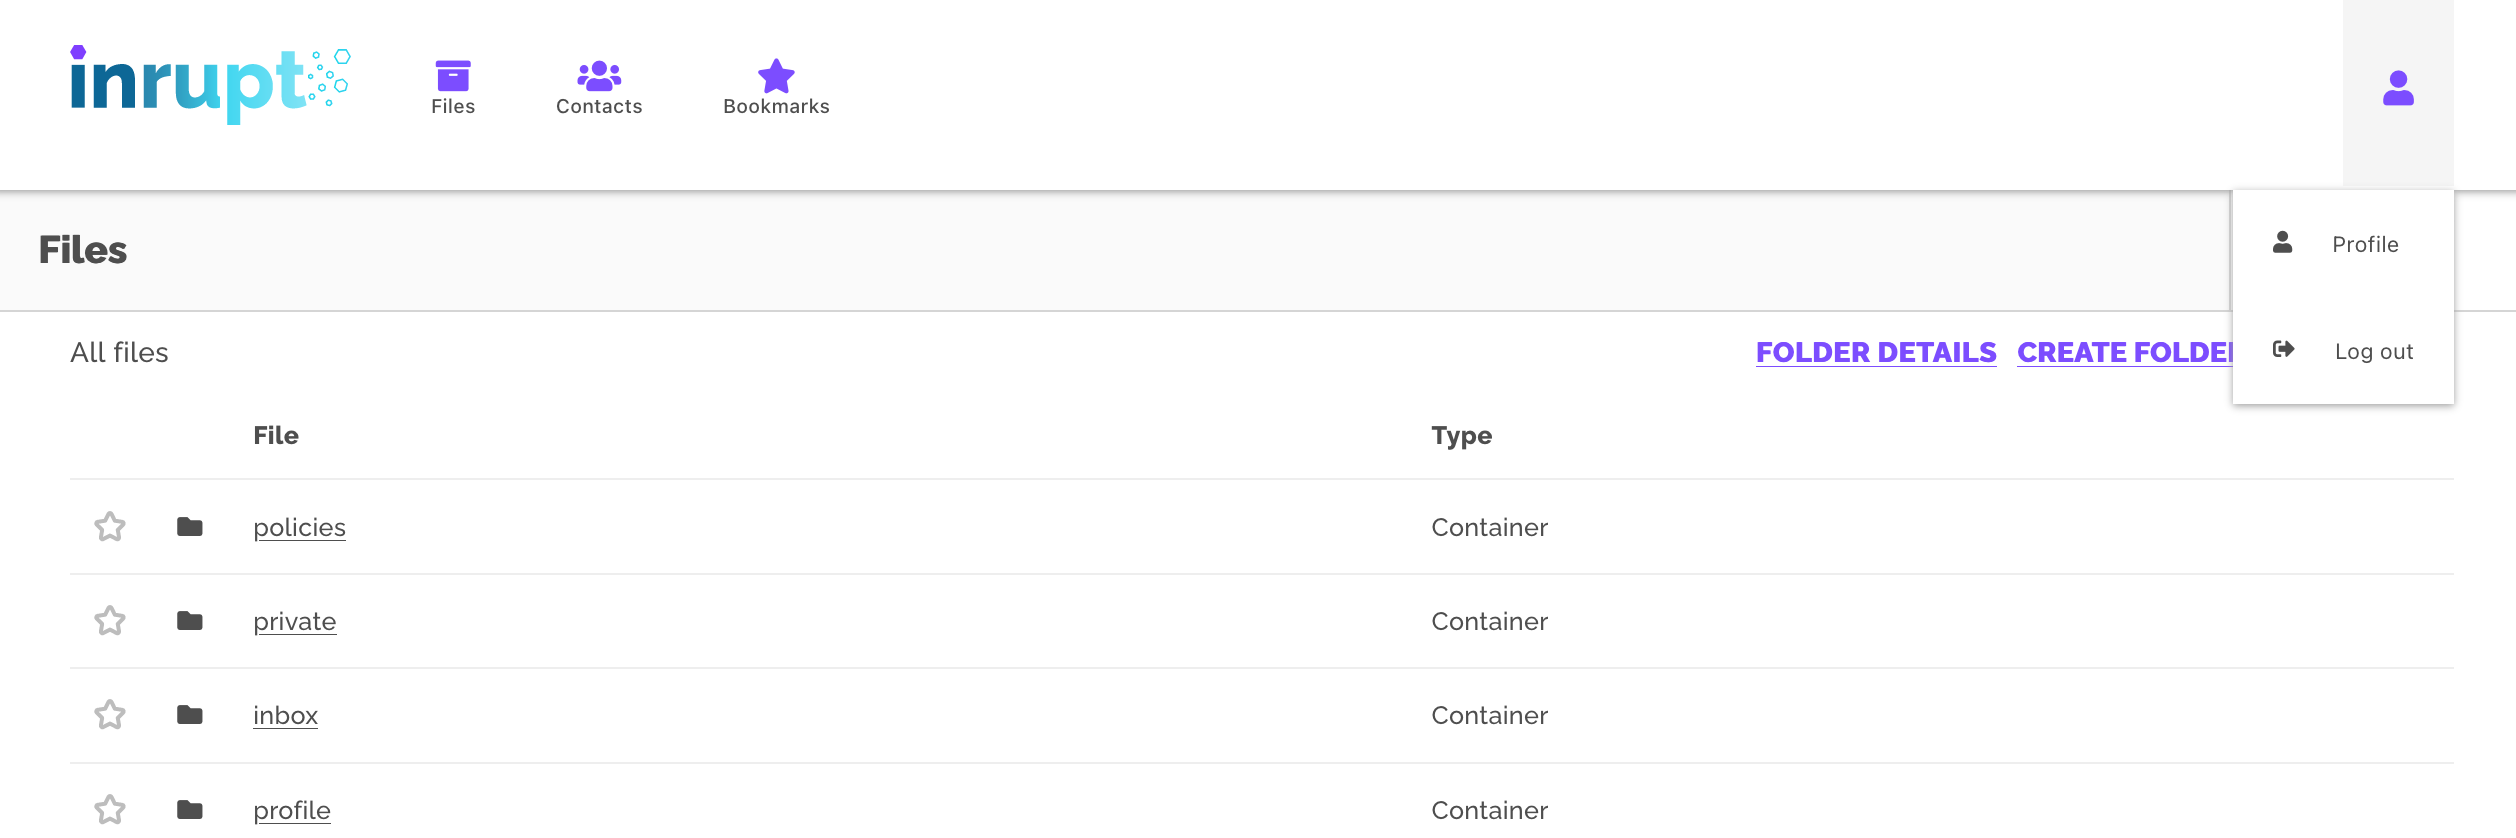
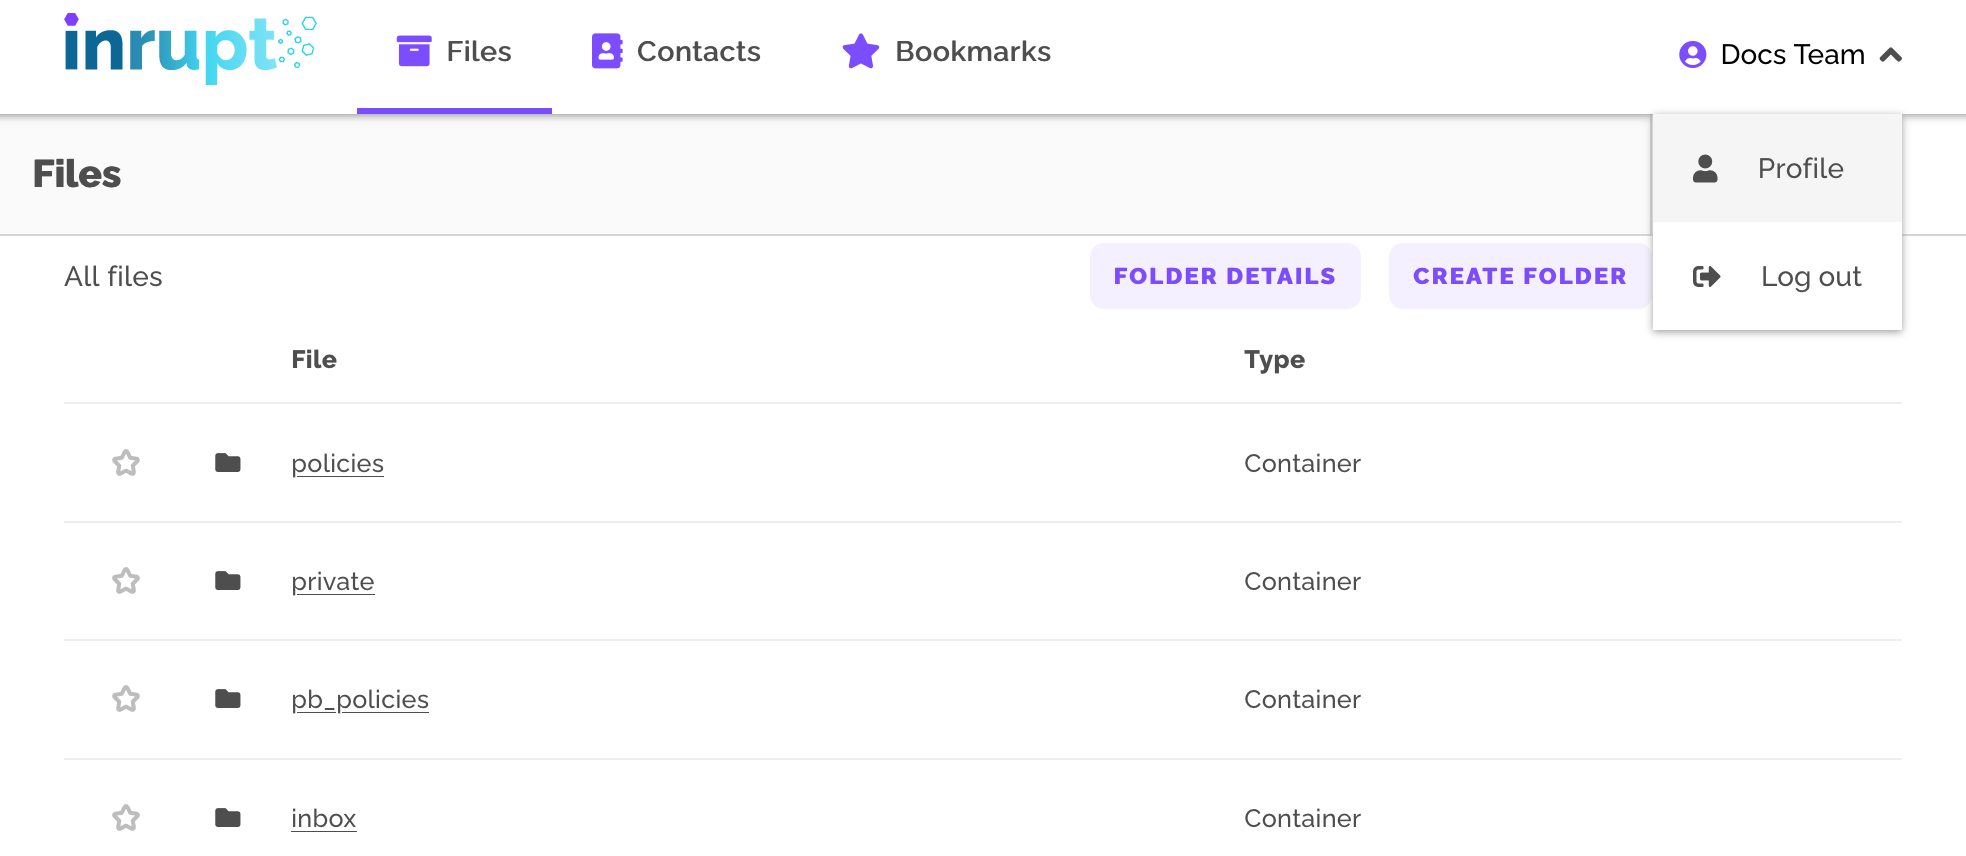
update for 1.1

diff --git a/source/manage-files.rst b/source/manage-files.rst
@@ -3,13 +3,14 @@ Manage Data: Files View
 =======================
 
 To manage the files in a Pod, go to :guilabel:`Files` view in
-PodBrowser. The :guilabel:`Files` view is the default view, but you can
-also switch to the :guilabel:`Files` view by clicking on the Files icon
-on the top menu bar.
+PodBrowser; i.e., click on :guilabel:`Files` on the top menu bar.
 
 .. image:: /images/podbrowser-files-view.png
    :alt: PodBrowser Files View
    :width: 600px
+
+Files View
+==========
 
 The :guilabel:`Files` view displays the contents of your Pod.
 The contents of your Pod have the following type:
@@ -39,7 +40,7 @@ folder.
 
 Alternatively, you can go directly to a folder:
 
-#. Click on the :guilabel:`Pod` indicator dropdown on the top left-hand side.
+#. Click on the :guilabel:`Your Pod` on the top right-hand side.
 
 #. Select :guilabel:`-> Change Pod`.
 
@@ -59,31 +60,19 @@ To view the details of a folder:
    Details` to open a Details view. The Details view provides
    information about the current folder you are browsing.
 
-   For example, the following image displays the details for the
-   folder named ``profile``:
-
-   .. image:: /images/podbrowser-folder-details.png
-      :alt: Details of the profile Folder/Container
-      :width: 650px
-
 #. From the folder's Details view:
 
    - You can :ref:`Delete <delete>` the folder.
 
    - You can view its Details.
 
-   - You can modify the :ref:`Permissions <modify-permissions>` to the folder.
+   - You can modify the :ref:`Sharing <modify-permissions>` permissions
+     for the folder.
 
 To view the details of a file/Resource:
 
 #. Click on the file to open a Details view. The Details view
-   provides information about the current selected file. For example,
-   the following image displays the details for the file named
-   ``card``:
-
-   .. image:: /images/podbrowser-resource-details.png
-      :alt: Details of a file named card
-      :width: 650px
+   provides information about the current selected file.
 
 #. From the file's Details view:
 
@@ -93,7 +82,8 @@ To view the details of a file/Resource:
 
    - You can view its Details.
 
-   - You can modify the :ref:`Permissions <modify-permissions>` to the File.
+   - You can modify the :ref:`Sharing <modify-permissions>` permissions
+     for the File.
 
 .. _delete:
 
@@ -143,39 +133,26 @@ You can modify the access permissions for a folder or a file from its
 
    - For a file, select the file. This opens its Details View.
 
-#. From the Details view, click :guilabel:`Permissions` to expand the
-   panel.
+#. From the Details view, click :guilabel:`Sharing` to expand the
+   panel. You can:
 
-   - To grant access to a new individual, 
+   - Manage Editors (:guilabel:`+ Edit Editors`), 
 
-     a. Click :guilabel:`Add with WebID`.
+   - Manage Viewers (:guilabel:`+ Edit Viewers`), or 
 
-     #. Enter the individual's WebID. You must include specify the full
-        URL, including the protocol ``https:// ...``.
+   - Specify Advanced Sharing.
 
-     #. Expand the access modes by clicking on the Access Modes caret (``v``).
-
-     #. Select the access modes to grant.
-
-     #. Click :guilabel:`Add`.
-
-   - To modify existing access for an individual,
+   .. tip::
    
-     a. Expand the individual's access modes by clicking on the associated
-        Access Modes caret (``v``).
-     
-        - To revoke an access mode, deselect the access mode to revoke.
-
-        - To grant an access mode, select the access mode to grant.
-
-     #. Click :guilabel:`SAVE`.
+      When adding a new WebID for sharing, you must include specify the
+      full URL, including the protocol ``https:// ...``.
 
 Create Folder
 =============
 
 To create a folder in the current folder:
 
-#. Click on the :guilabel:`Create File` link.
+#. Click on the :guilabel:`Create Folder` link.
 
 #. Enter in the folder's name.
 
@@ -195,7 +172,7 @@ Switch Pod
 
 To switch to another Pod:
 
-#. Click on the :guilabel:`Pod` indicator dropdown on the top left-hand side.
+#. Click on the :guilabel:`Your Pod` dropdown on the top right-hand side.
 
 #. Select :guilabel:`-> Change Pod`.
 
@@ -225,13 +202,13 @@ Bookmark a Pod
 
 To bookmark the current Pod:
 
-#. Click on the :guilabel:`Pod` indicator dropdown on the top left-hand side.
+#. Click on the :guilabel:`Your Pod` dropdown on the top right-hand side.
 
 #. Select :guilabel:`Bookmark Pod`.
 
 To remove a Pod from your bookmarks:
 
-#. Click on the :guilabel:`Pod` indicator dropdown on the top left-hand side.
+#. Click on the :guilabel:`Your Pod` dropdown on the top right-hand side.
 
 #. Select :guilabel:`Remove Pod Bookmark`.
 

diff --git a/source/login.rst b/source/login.rst
@@ -2,55 +2,63 @@
 Login and Authorization
 =======================
 
-To access your Pod via `PodBrowser <https://podbrowser.inrupt.com>`_,
+To access your Pod via `PodBrowser <https://podbrowser.inrupt.com/login>`_,
 
 #. Go to https://podbrowser.inrupt.com/login in a Web browser.
 
-#. Select or enter your Solid Identity Provider and click :guilabel:`Log In`.
+#. If your Pod is hosted on ``pod.inrupt.com``, click :guilabel:`Sign
+   In`.
+
+   If your Pod is hosted elsewhere (such as ``pod-compat.inrupt.com``
+   or ``inrupt.net``), click :guilabel:`Sign in with other provider`,
+   enter you Provider, and click :guilabel:`Go`.
 
 #. Log in to your Solid Identity Provider.
 
+#. The consent screen appears. To continue, click :guilabel:`Approve`
+   to authorize PodBrowser.
+
 .. image:: /images/podbrowser-pod-inrupt-com.png
    :alt: PodBrowser Log In Screen
+   :width: 400px
+   :target: https://podbrowser.inrupt.com/login
 
 Examples
 ========
-
-If your Pod is hosted on one of the `Inrupt Pod Spaces
-<https://docs.inrupt.com/pod-spaces>`_, click on the corresponding tab
-for an example.
 
 .. tabs::
 
    .. tab:: ``pod.inrupt.com``
    
-      #. For the Solid ID Provider, enter ``https://broker.pod.inrupt.com`` and click :guilabel:`Log In`.
+      #. Click :guilabel:`Sign In`.
   
-      #. Enter your :guilabel:`Username` and :guilabel:`Password` and login.
+      #. Enter your :guilabel:`Username` and :guilabel:`Password` and :guilabel:`Sign In`.
  
-      #. The consent screen appears. To continue,
-         click :guilabel:`Authorize` to accept the Inrupt Terms and Conditions and
-         authorize PodBrowser.
+      #. The consent screen appears. To continue, click
+         :guilabel:`Approve` to authorize PodBrowser.
 
-      ➢ To sign up for a Pod on ``https://pod.inrupt.com``, go to
+      To sign up for a Pod on ``https://pod.inrupt.com``, go to
       https://signup.pod.inrupt.com/.
 
    .. tab:: ``pod-compat.inrupt.com``
-  
-      #. For the Solid ID Provider, enter ``https://broker.pod-compat.inrupt.com`` and click :guilabel:`Log In`.
-  
+
+      #. Click :guilabel:`Sign in with other provider`.
+
+      #. Enter ``https://broker.pod-compat.inrupt.com`` and click :guilabel:`Go`.
+
       #. Enter your :guilabel:`Username` and :guilabel:`Password` and login.
  
       #. The consent screen appears. To continue,
-         click :guilabel:`Authorize` to accept the Inrupt Terms and Conditions and
-         authorize PodBrowser.
+         click :guilabel:`Approve` to authorize PodBrowser.
 
-      ➢ To sign up for a Pod on ``https://pod-compat.inrupt.com``, go to
+      To sign up for a Pod on ``https://pod-compat.inrupt.com``, go to
       https://signup.pod-compat.inrupt.com/.
 
    .. tab:: ``inrupt.net``
 
-      #. For the Solid ID Provider, enter ``https://inrupt.net`` and click :guilabel:`Log In`.
+      #. Click :guilabel:`Sign in with other provider`.
+      
+      #. Select or enter ``https://inrupt.net`` and click :guilabel:`Go`.
   
       #. Enter your :guilabel:`Username` and :guilabel:`Password` and login.
  
@@ -68,7 +76,8 @@ for an example.
          time, you can manually grant PodBrowser the required access.
          For details, see :ref:`faq-grant-access-manually`.
 
-       ➢ To sign up for a Pod on ``https://inrupt.net``, go to
+       To sign up for a Pod on ``https://inrupt.net``, go to
        https://inrupt.net.
 
-For information on these Solid Servers, see `Inrupt Pod Spaces`_.
+For information on these Solid Servers, see `Inrupt Pod Spaces
+<https://docs.inrupt.com/pod-spaces>`_.

diff --git a/source/faq.rst b/source/faq.rst
@@ -23,9 +23,9 @@ To adjust PodBrowser's access:
 
 #. In the :guilabel:`Manage your trusted applications` section:
 
-  * If PodBrowser is not listed as a trusted application:
+   | If PodBrowser is not listed as a trusted application:
   
-    #. At the bottom of the table enter:
+     #. At the bottom of the table enter:
 
         .. list-table::
           :header-rows: 1
@@ -38,11 +38,11 @@ To adjust PodBrowser's access:
 
             - ``Read``, ``Write``, ``Append``, and ``Control``
     
-    #. Click :guilabel:`Add`.
+     #. Click :guilabel:`Add`.
 
-  * If PodBrowser is listed as a trusted application but with the
-      wrong access, select all of the access modes and click
-      :guilabel:`Update`.
+   | If PodBrowser is listed as a trusted application but with the
+     wrong access, select all of the access modes and click
+     :guilabel:`Update`.
 
 .. _`Solid Data Browser`: https://github.com/solid/userguide#data-browser-user-guide
 
@@ -53,7 +53,7 @@ How do I navigate to another Pod?
 To browse another Pod (or even a different Container in your own Pod), you can navigate there 
 directly by entering the Pod (or Container) URI.
 
-#. In PodBrowser, click the current :guilabel:`Pod` identifier link (just below the Account menu).
+#. In PodBrowser, click the :guilabel:`Your Pod` dropdown on the top right-hand side.
 
 #. Select :guilabel:`Change Pod` in the menu.
 

diff --git a/source/manage-bookmarks.rst b/source/manage-bookmarks.rst
@@ -3,8 +3,7 @@ View Saved Bookmarks: Bookmarks View
 ====================================
 
 To manage contacts in PodBrowser, switch to the :guilabel:`Bookmarks`
-view. To switch to the :guilabel:`Bookmarks` view, click on the
-Bookmarks icon on the top menu bar.
+view; i.e., click on :guilabel:`Bookmarks` on the top menu bar.
 
 .. image:: /images/podbrowser-bookmarks-view.png
    :alt: PodBrowser Bookmarks View
@@ -24,7 +23,7 @@ To bookmark a folder or a file:
 
 To bookmark a Pod:
 
-#. Click on the :guilabel:`Pod` indicator dropdown on the top left-hand side.
+#. Click on the :guilabel:`Your Pod` dropdown on the top right-hand side.
 
 #. Select :guilabel:`Bookmark Pod`.
 

diff --git a/source/update-profile.rst b/source/update-profile.rst
@@ -2,9 +2,14 @@
 Update Profile
 ==============
 
-To update your Profile in PodBrowser, open the Profile form. To open
-the Profile form, move your mouse over the person icon and
-click :guilabel:`Profile`.
+View Profile
+============
+
+To view your Profile in PodBrowser, open the Profile form:
+
+#. Click on your icon/name in the upper right hand corner.
+
+#. In the drop down menu, click :guilabel:`Profile`.
 
 .. image:: /images/podbrowser-profile.png
    :alt: PodBrowser Profile

diff --git a/source/manage-contacts.rst b/source/manage-contacts.rst
@@ -3,7 +3,7 @@ Manage Contacts: Contacts View
 ==============================
 
 To manage contacts in PodBrowser, switch to the :guilabel:`Contacts`
-view; i.e., click on the Contacts icon on the top menu bar.
+view; i.e., click on :guilabel:`Contacts` on the top menu bar.
 
 .. image:: /images/podbrowser-contacts-view.png
    :alt: PodBrowser Contacts View

diff --git a/source/index.rst b/source/index.rst
@@ -5,6 +5,11 @@ Inrupt PodBrowser
 The Inrupt `PodBrowser <https://podbrowser.inrupt.com>`_ is an
 application for managing individual Solid Pods.
 
+.. image:: /images/podbrowser-pod-inrupt-com.png
+   :alt: PodBrowser Log In Screen
+   :width: 400px
+   :target: https://podbrowser.inrupt.com/login
+
 Features
 ========
 
